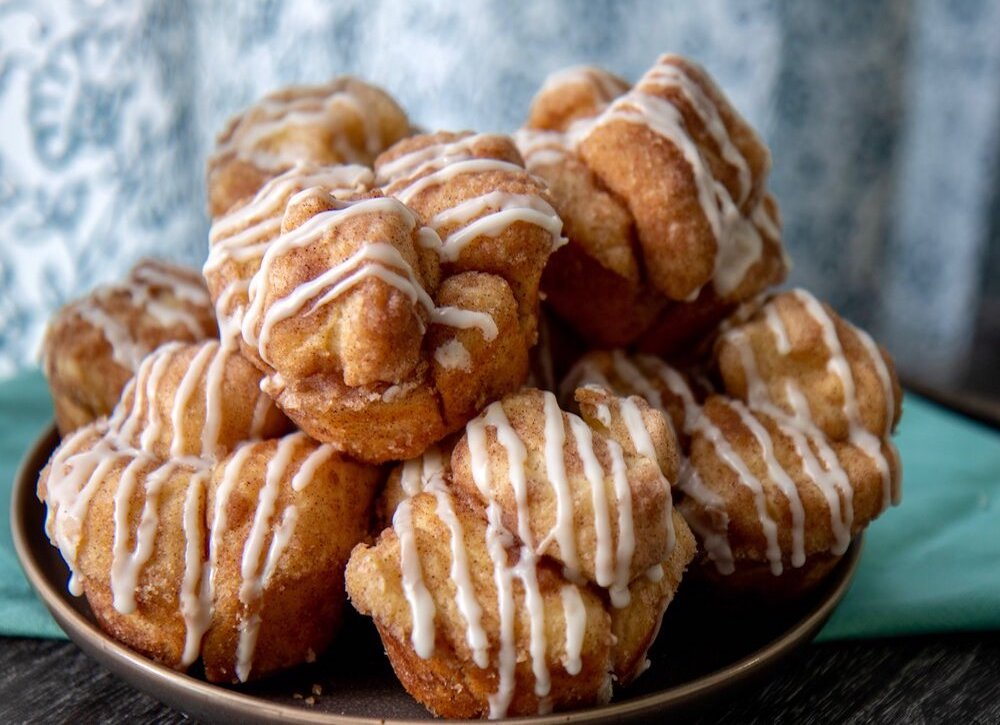
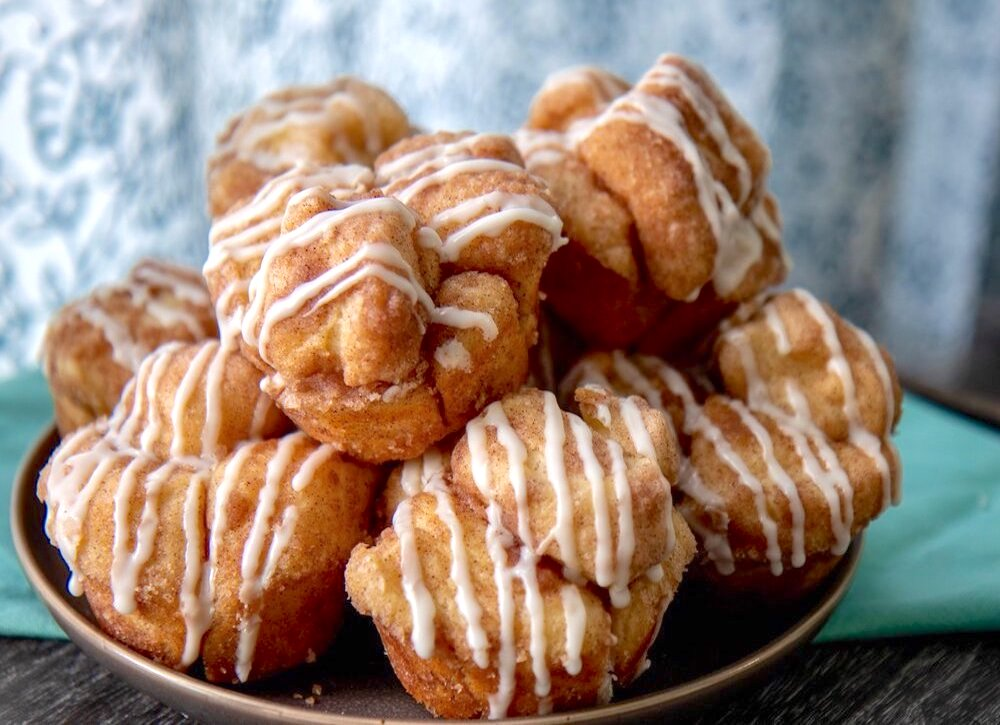
Update

diff --git a/index.html b/index.html
@@ -133,7 +133,7 @@
         <div class="col-md-4">
           <figure class="my-3 tstbite-card">
             <a href="/monkeybread" class="tstbite-animation rounded-6">
-              <img src="assets/images/food/mb.jpg" class="w-100">
+              <img src="assets/images/food/monkeybread.jpeg" class="w-100">
             </a>
             <figcaption class="mt-2">
               <a href="/monkeybread" class="f-size-20 text-black d-block mt-1 font-weight-semibold">Monkey Bread Muffins</a>
